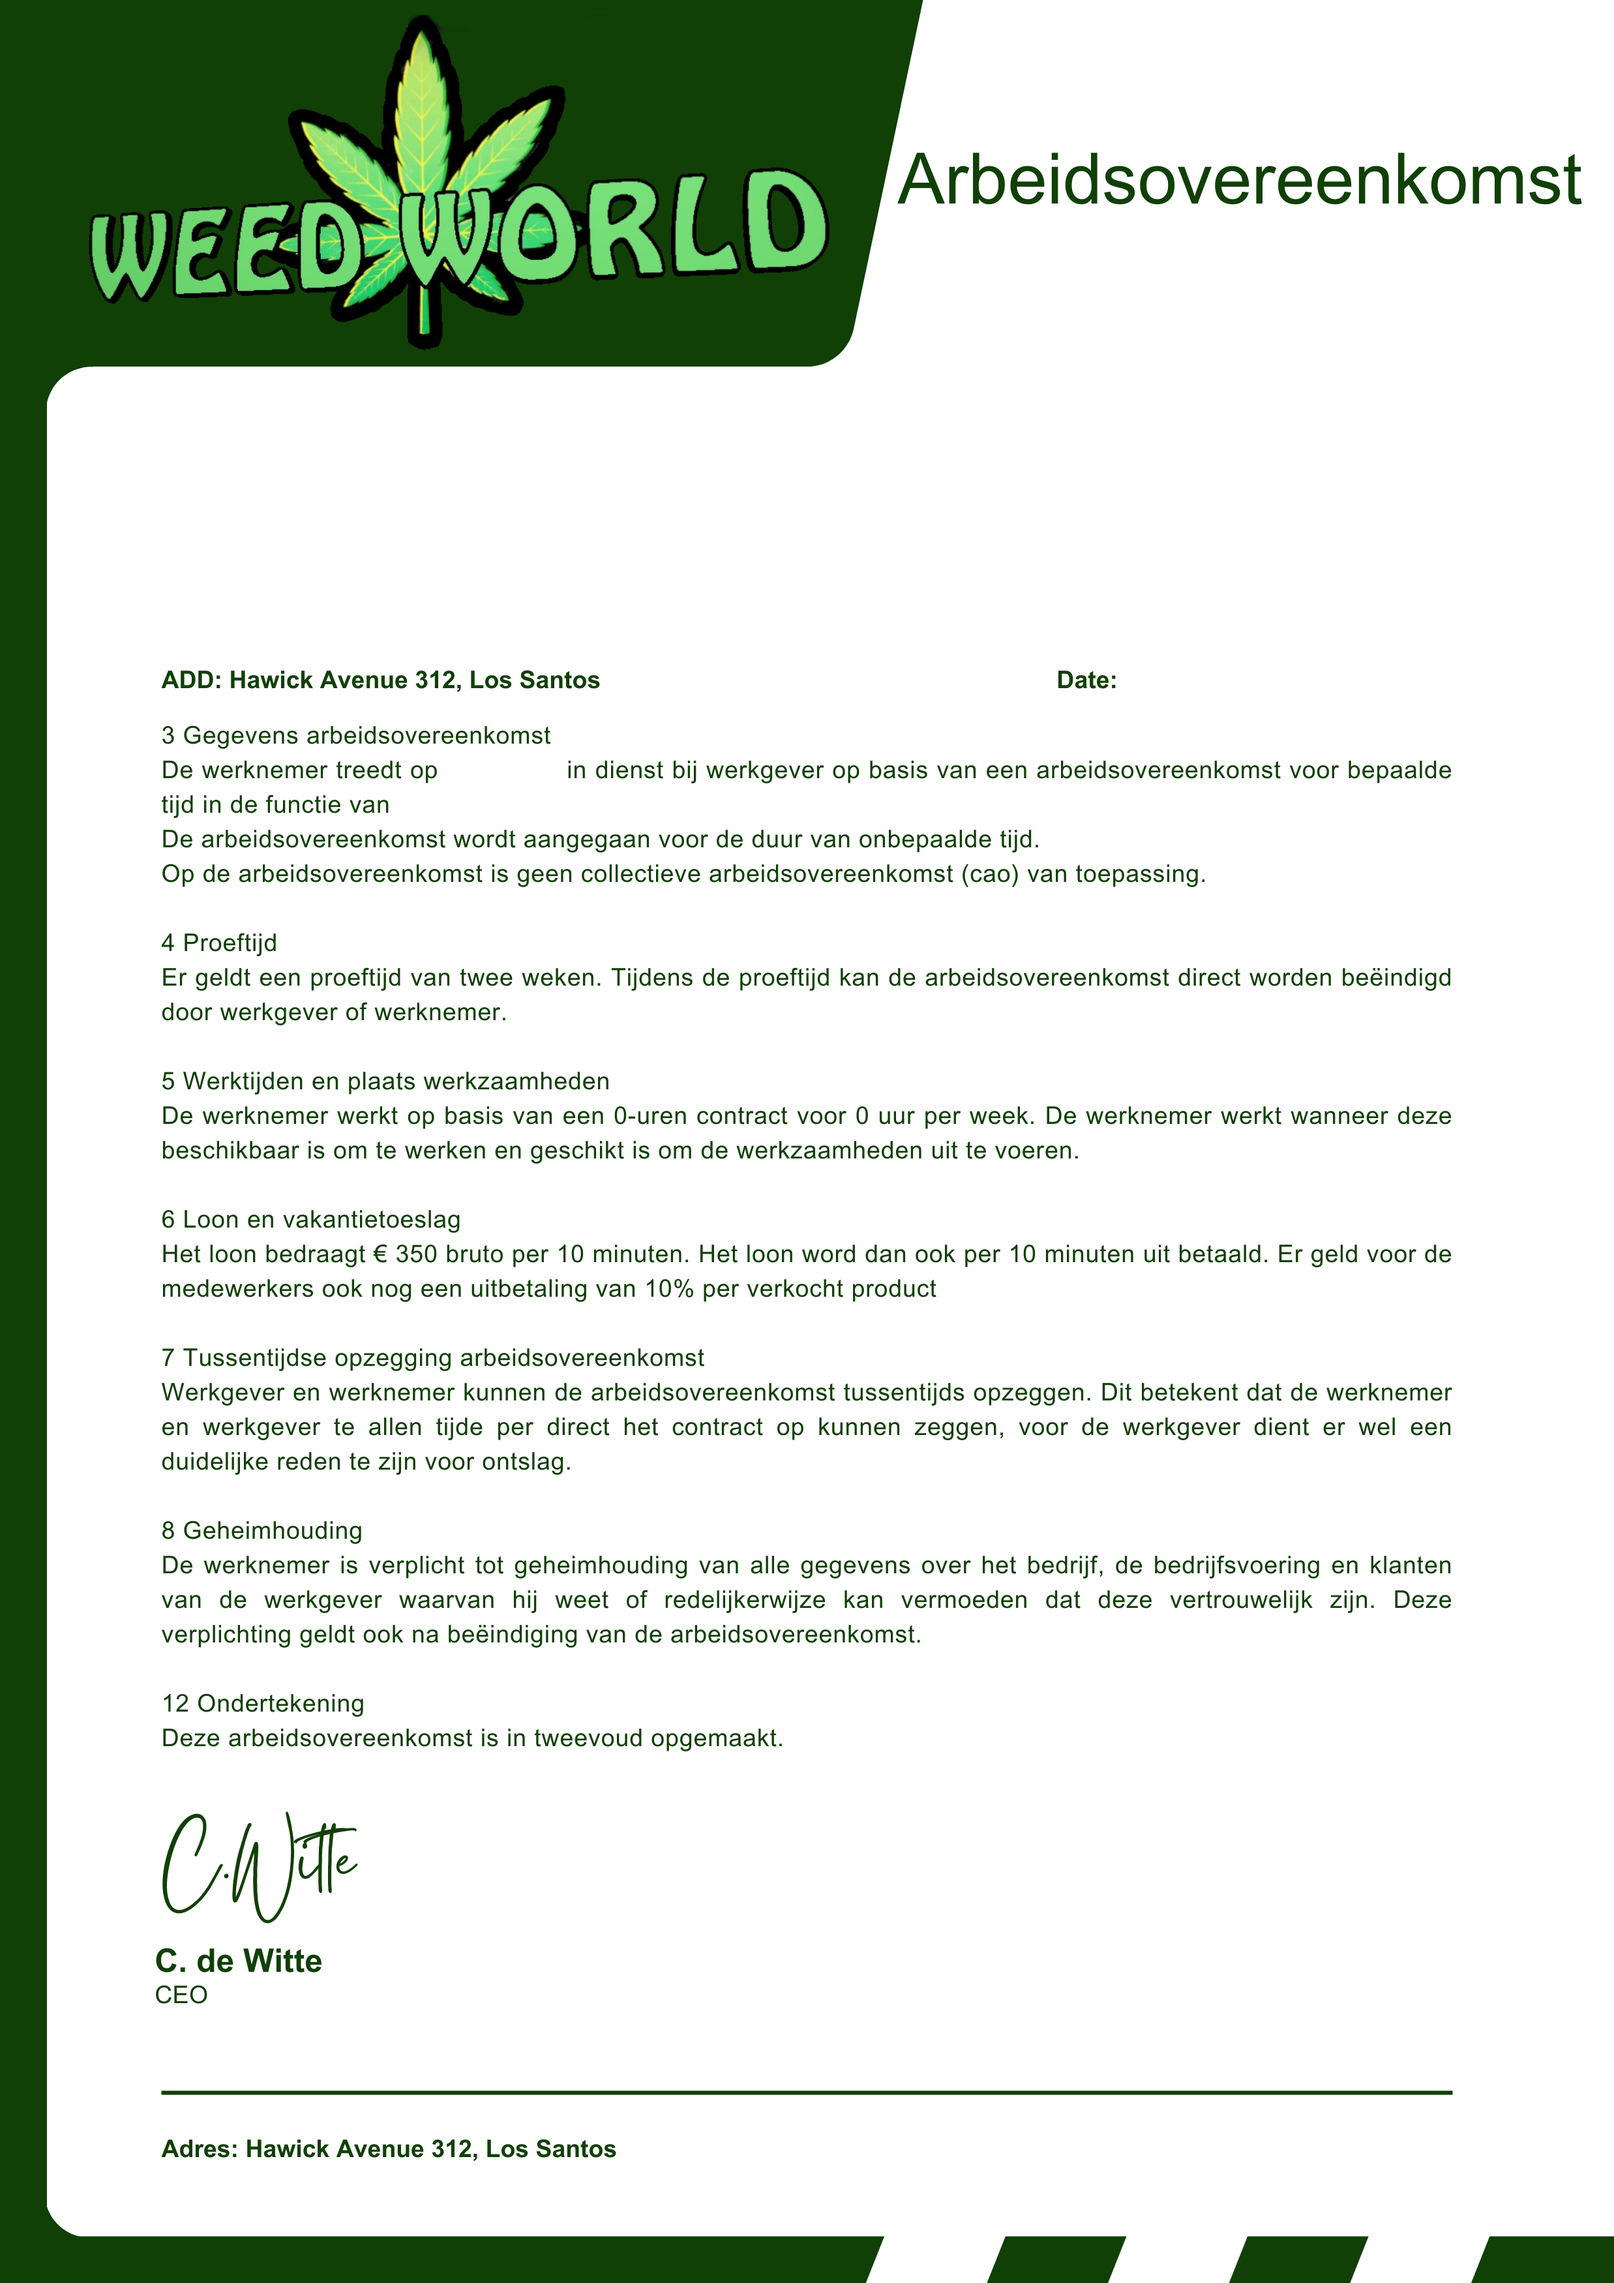
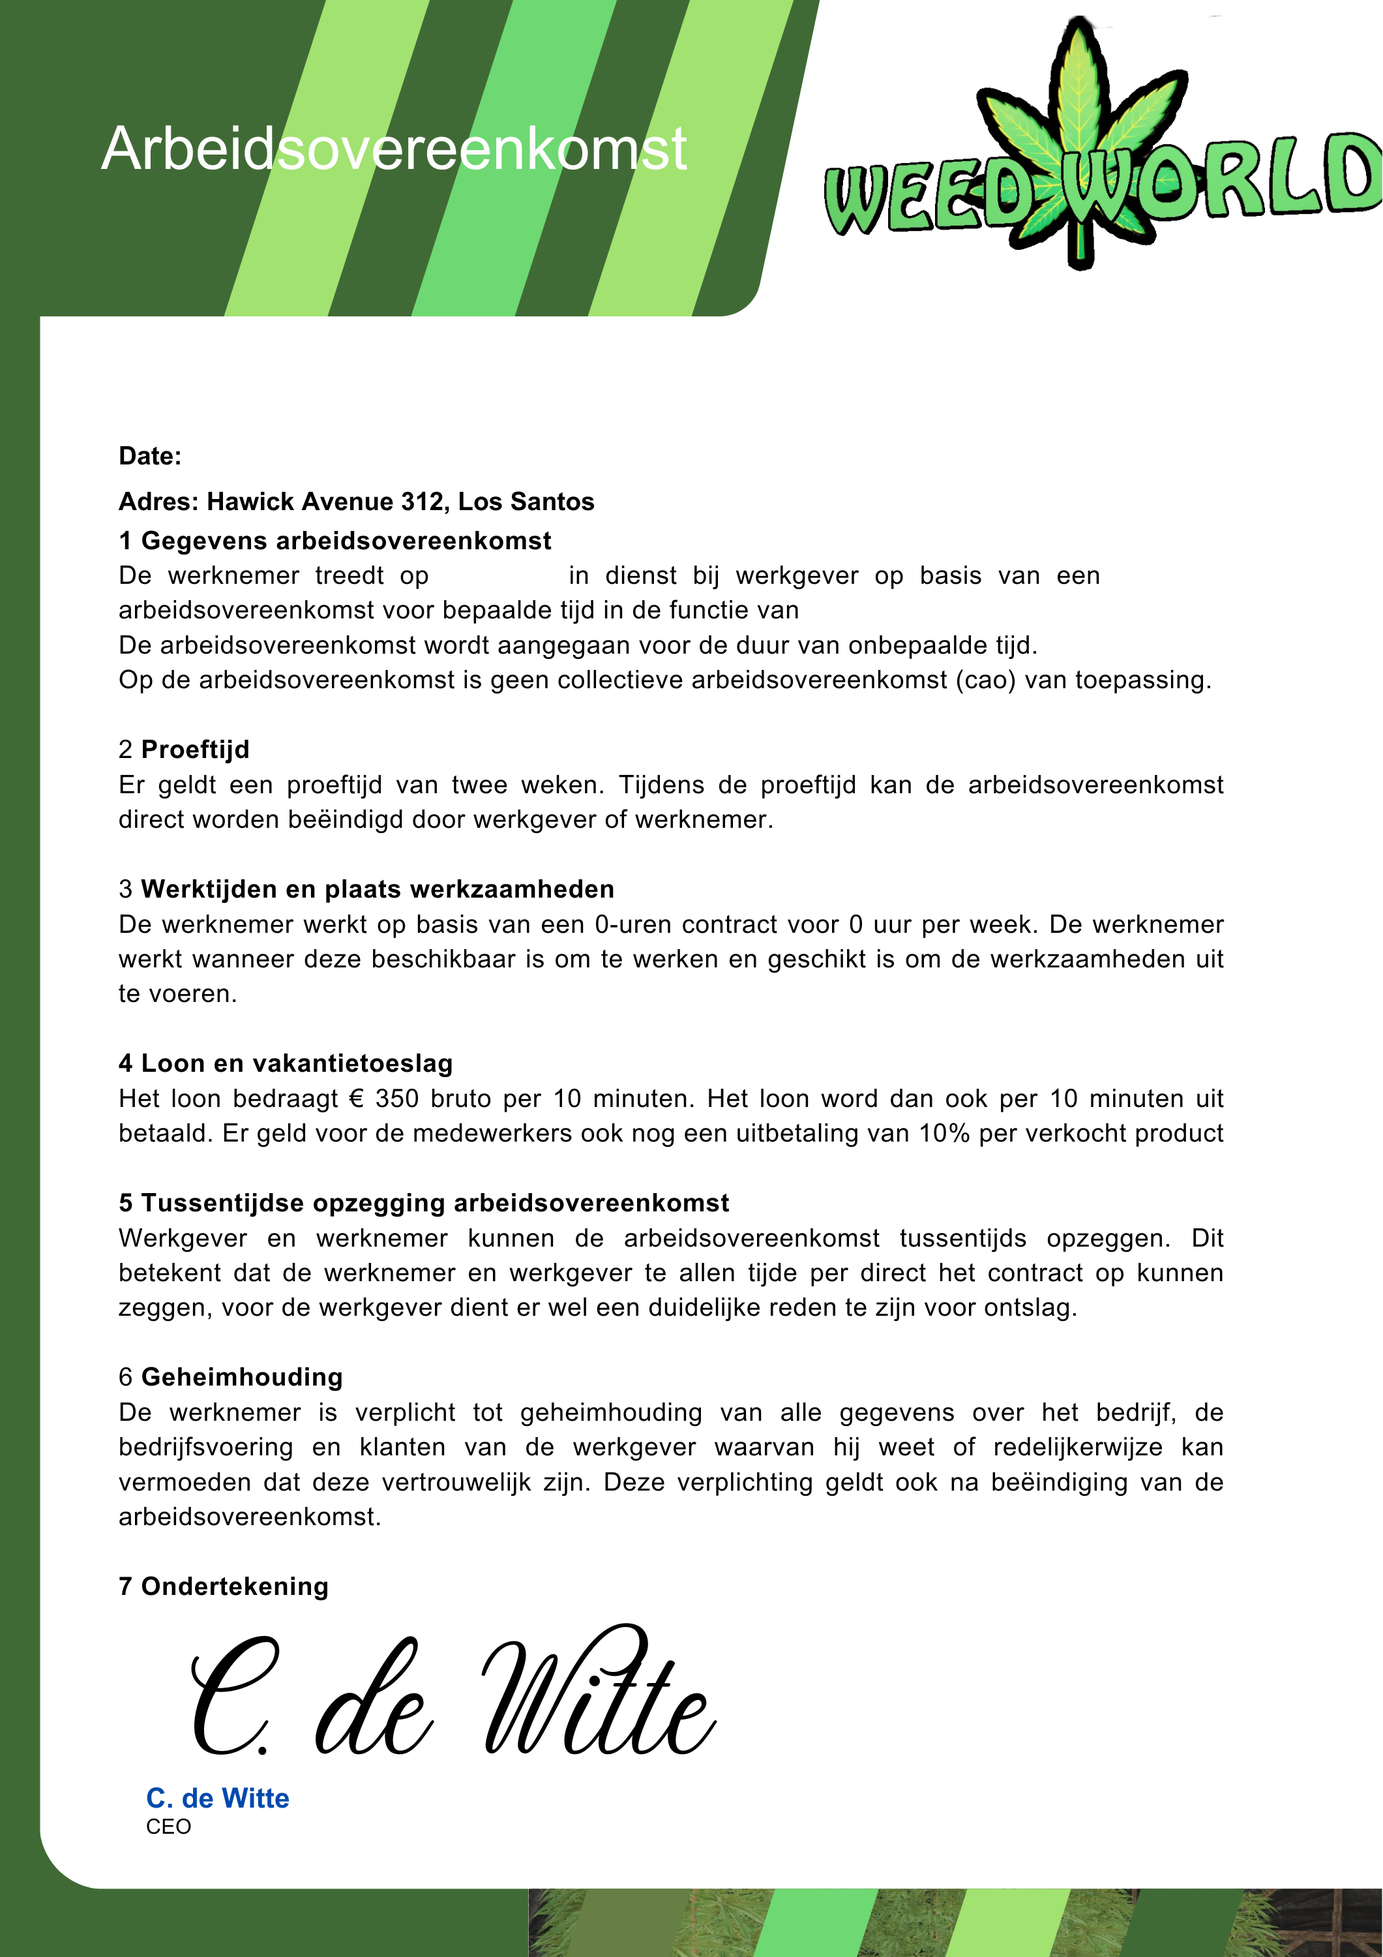
Updates

diff --git a/Weedworld.html b/Weedworld.html
@@ -124,12 +124,11 @@
        // Set text properties
        ctx.font = "bold 30px Arial";
             ctx.fillStyle = "Black";
-            ctx.fillText(todayString, 1510, 905);
-            ctx.fillText(todayString, 595 ,1022);
-            ctx.font = "90px Lucida Handwriting";
-            ctx.fillText(Naam, 600, 700);
-            ctx.font = "bold 30px Arial";
-            ctx.fillText(Functie, 542, 1066);
+            ctx.fillText(todayString, 310, 715);
+            ctx.fillText(todayString, 700 ,900);
+            ctx.fillText(Functie, 1260, 952);
+            ctx.font = "70px Lucida Handwriting";
+            ctx.fillText(Naam, 600, 600);
             
             
 
